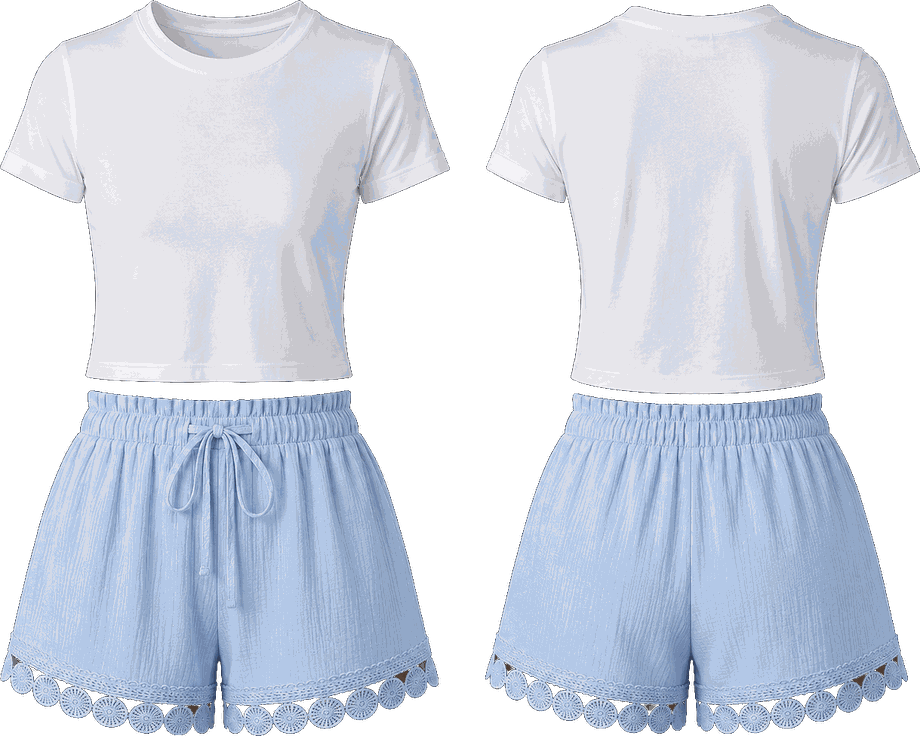
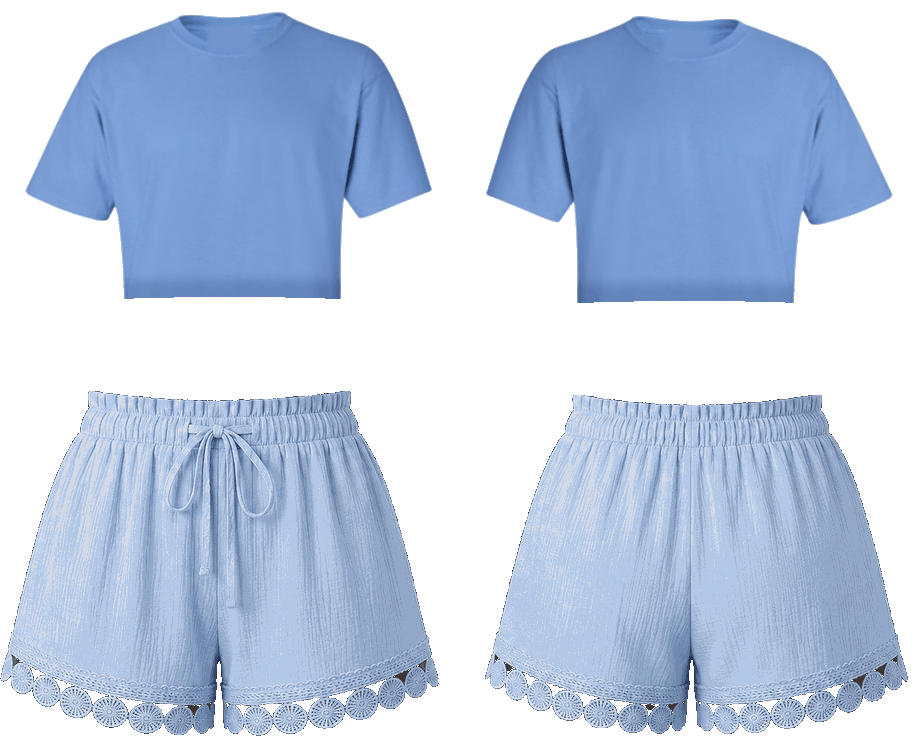
Swap the white boardwalk tee for the blue one
Laura dropped the blue tee (IMG_2508.jpeg) in the repo, so every look in
the Pick Your Bottoms widget now wears it instead of the white tee. The
white tee was lifted off both the front and back of all four look images
and the blue one dropped in its place, hem over the waistband for the
tucked in fit and cut at the waist for the crop fit. The bottoms are
untouched. Files stay 8 bit palette PNGs so they weigh about what the old
ones did.

The tee still renders blank: the white design going on it is the
surprise. Copy now says so, and that you get yours when you get there.

Claude-Session: https://claude.ai/code/session_01635cBFyK3vBBqrZP45C42e

diff --git a/scripts/data.js b/scripts/data.js
@@ -649,8 +649,8 @@ var DATA = {
         // The fleet drives in across the top of the plan when this day opens.
         cars: true,
         hook: "Boardwalk by Day",
-        vibe: "Slow morning, then we head to Broadway at the Beach for lunch and to walk the shops. This is the day for our matching tee and your own pick of shorts (choose yours below). It is a half day: we leave Broadway by 3 to 4 in the afternoon and head back to the house to change for the night out.",
-        wear: "the matching tee with your pick of shorts (pick yours below), comfy sneakers",
+        vibe: "Slow morning, then we head to Broadway at the Beach for lunch and to walk the shops. This is the day for our matching blue tee and your own pick of shorts (choose yours below). It is a half day: we leave Broadway by 3 to 4 in the afternoon and head back to the house to change for the night out.",
+        wear: "the matching blue tee with your pick of shorts (pick yours below), comfy sneakers",
         meals: {
           breakfast: "At the house",
           lunch: {
@@ -928,9 +928,9 @@ var DATA = {
   boardwalk: {
     kicker: "saturday · boardwalk",
     title: "Pick Your Bottoms",
-    intro: "Same surprise tee for everyone, your choice of bottoms. Arrow through the shorts and skirts, flip between crop top and tucked in, then shop your favorite.",
-    teeNote: "Everyone gets the same tee",
-    teeSub: "It's a surprise, so it's shown blank here. Just pick your bottoms.",
+    intro: "Same blue tee for everyone, your choice of bottoms. Arrow through the shorts and skirts, flip between crop top and tucked in, then shop your favorite.",
+    teeNote: "Everyone gets the same blue tee",
+    teeSub: "This is the tee, in this blue. A white design is going on it, and that part stays a surprise, so it's shown blank here. Yours is waiting for you when you get there. Just pick your bottoms.",
     teeSizing: "On sizing: in your true size the tee hits right at your waistline, if not a touch above. Want the oversized look? Order one size up. Those are your two size options.",
     fitNote: "Two ways to wear the tee: cropped, or tucked in and worn long.",
     footerScript: "boardwalk & chill",

diff --git a/BACHELORETTE-APP-SPEC.md b/BACHELORETTE-APP-SPEC.md
@@ -163,9 +163,9 @@ original handoff for the verbatim copy, all of which is encoded in `data.js`.
 
 ### 7.1 Boardwalk Shorts Visualizer ("Pick Your Shorts")
 
-A look builder for the Boardwalk day. Everyone gets the same surprise tee (shown
-blank) and chooses one of several shorts options. Each look is a front-and-back
-mockup on black.
+A look builder for the Boardwalk day. Everyone gets the same blue tee (shown
+blank, because the white design going on it is the surprise) and chooses one of
+several shorts options. Each look is a front-and-back mockup on black.
 
 Built as a self-contained module: embedded inside the Boardwalk day section AND
 available as a standalone page (`boardwalk-looks.html`). Both render from
